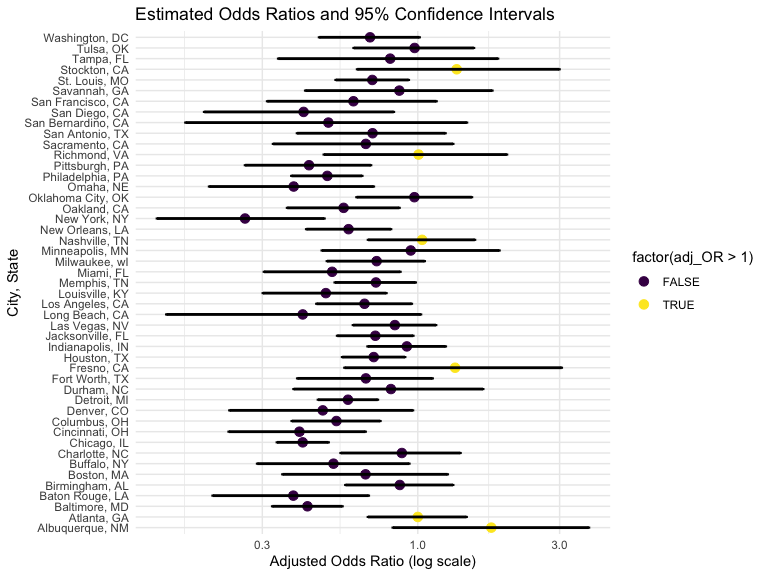
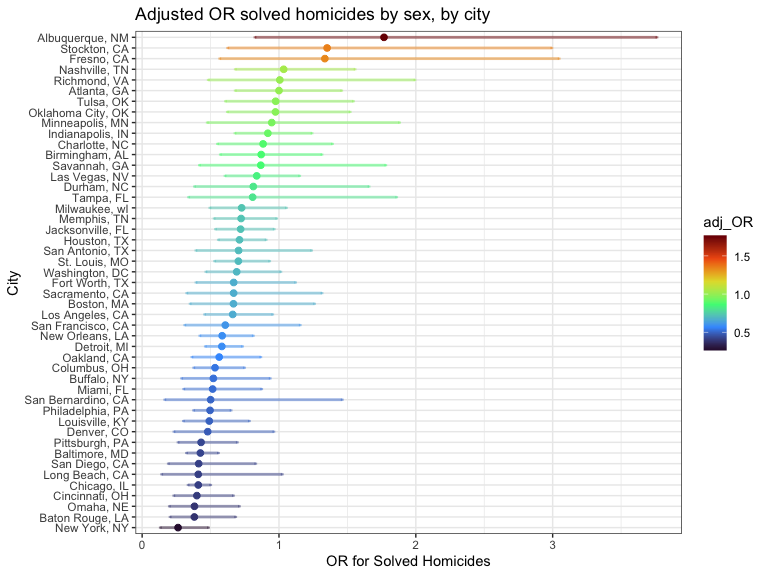
Plot for all state OR solved homicides

diff --git a/p8105_hw6.md b/p8105_hw6.md
@@ -223,72 +223,39 @@ results_all = homicide_df |>
     results = purrr::map(data, fit_and_extract)
   ) |> 
   unnest(results) |> 
-  arrange(adj_OR)
+  mutate(city_state = fct_reorder(city_state, adj_OR))
 ```
-
-    ## Waiting for profiling to be done...
-    ## Waiting for profiling to be done...
-    ## Waiting for profiling to be done...
-    ## Waiting for profiling to be done...
-    ## Waiting for profiling to be done...
-    ## Waiting for profiling to be done...
-    ## Waiting for profiling to be done...
-    ## Waiting for profiling to be done...
-    ## Waiting for profiling to be done...
-    ## Waiting for profiling to be done...
-    ## Waiting for profiling to be done...
-    ## Waiting for profiling to be done...
-    ## Waiting for profiling to be done...
-    ## Waiting for profiling to be done...
-    ## Waiting for profiling to be done...
-    ## Waiting for profiling to be done...
-    ## Waiting for profiling to be done...
-    ## Waiting for profiling to be done...
-    ## Waiting for profiling to be done...
-    ## Waiting for profiling to be done...
-    ## Waiting for profiling to be done...
-    ## Waiting for profiling to be done...
-    ## Waiting for profiling to be done...
-    ## Waiting for profiling to be done...
-    ## Waiting for profiling to be done...
-    ## Waiting for profiling to be done...
-    ## Waiting for profiling to be done...
-    ## Waiting for profiling to be done...
-    ## Waiting for profiling to be done...
-    ## Waiting for profiling to be done...
-    ## Waiting for profiling to be done...
-    ## Waiting for profiling to be done...
-    ## Waiting for profiling to be done...
-    ## Waiting for profiling to be done...
-    ## Waiting for profiling to be done...
-    ## Waiting for profiling to be done...
-    ## Waiting for profiling to be done...
-    ## Waiting for profiling to be done...
-    ## Waiting for profiling to be done...
-    ## Waiting for profiling to be done...
-    ## Waiting for profiling to be done...
-    ## Waiting for profiling to be done...
-    ## Waiting for profiling to be done...
-    ## Waiting for profiling to be done...
-    ## Waiting for profiling to be done...
-    ## Waiting for profiling to be done...
-    ## Waiting for profiling to be done...
 
 - Create a plot that shows the estimated ORs and CIs for each city.
   Organize cities according to estimated OR, and comment on the plot.
 
 ``` r
-ggplot(results_all, aes(x = adj_OR, y = city_state, xmin = `lower 95% CI`, xmax = `upper 95% CI`)) +
-  geom_point(aes(color = factor(adj_OR > 1)), size = 3) +
-  geom_errorbarh(height = 0.2, size = 1, color = "black") +
-  labs(title = "Estimated Odds Ratios and 95% Confidence Intervals",
-       x = "Adjusted Odds Ratio (log scale)",
-       y = "City, State") +
-  scale_x_log10() +
-  theme_minimal()
+plot_unsolved_sex <- results_all  |> 
+    arrange(adj_OR) |> 
+  ggplot(aes(x = reorder(city_state, adj_OR), y = adj_OR, color = adj_OR)) +
+    geom_point(size = 2) +
+    scale_color_viridis_c(option = "turbo") +
+    geom_errorbar(aes(ymin = `lower 95% CI`, ymax = `upper 95% CI`), size = 1, width = 0.2, alpha = 0.5) +
+    labs(title = "Adjusted OR solved homicides by sex, by city", x = "City", y = "OR for Solved Homicides") +
+    coord_flip() + 
+    theme(
+      panel.background = element_rect(fill = "grey95"), 
+      axis.title = element_text(color = "black", size = 14), 
+      axis.text = element_text(color = "black", size = 11), 
+      title = element_text(color = "black", size = 18)
+    ) +
+  theme_bw()
+
+plot_unsolved_sex
 ```
 
 <img src="p8105_hw6_files/figure-gfm/unnamed-chunk-6-1.png" width="90%" />
+
+``` r
+plot_save_path <- "hw6_plots/OR_unsolved_sex_by_state.png"
+
+ggsave(plot_save_path, plot_unsolved_sex, device = "png", width = 8, height = 9, units = "in", dpi = 300)
+```
 
 #### Problem 2
 
